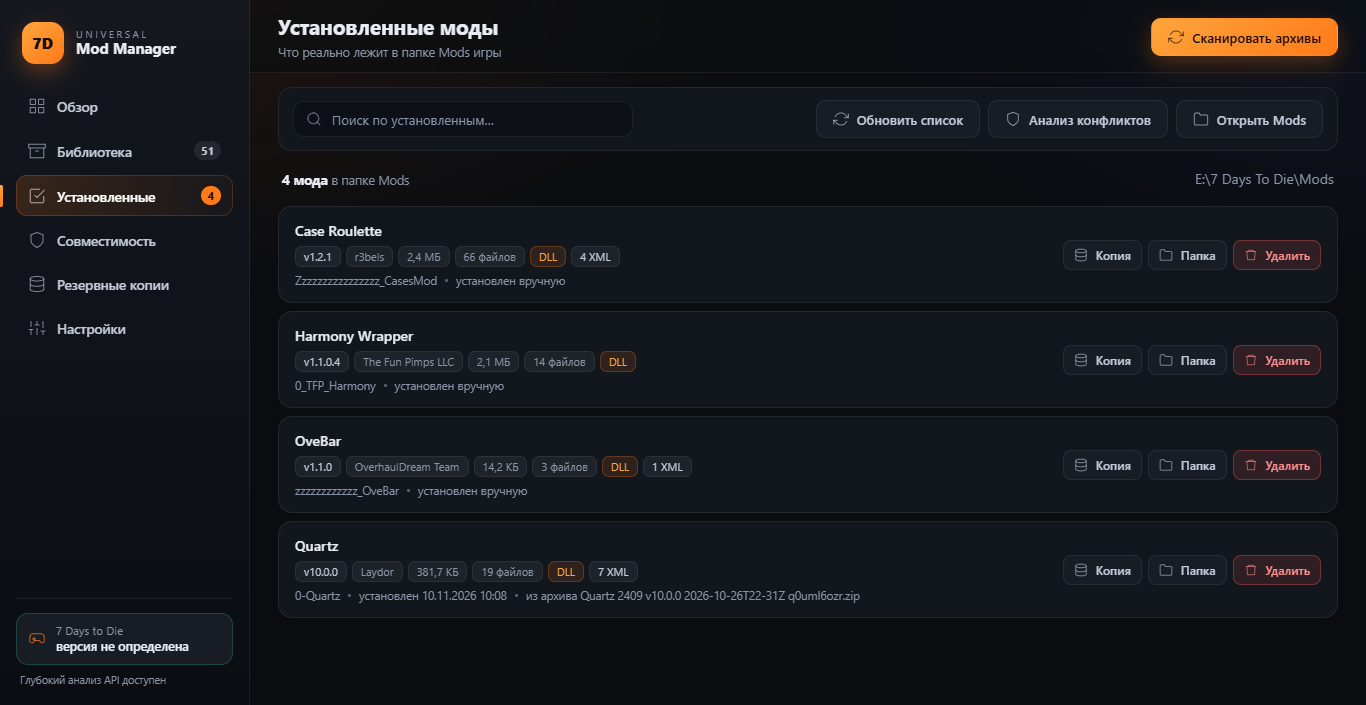
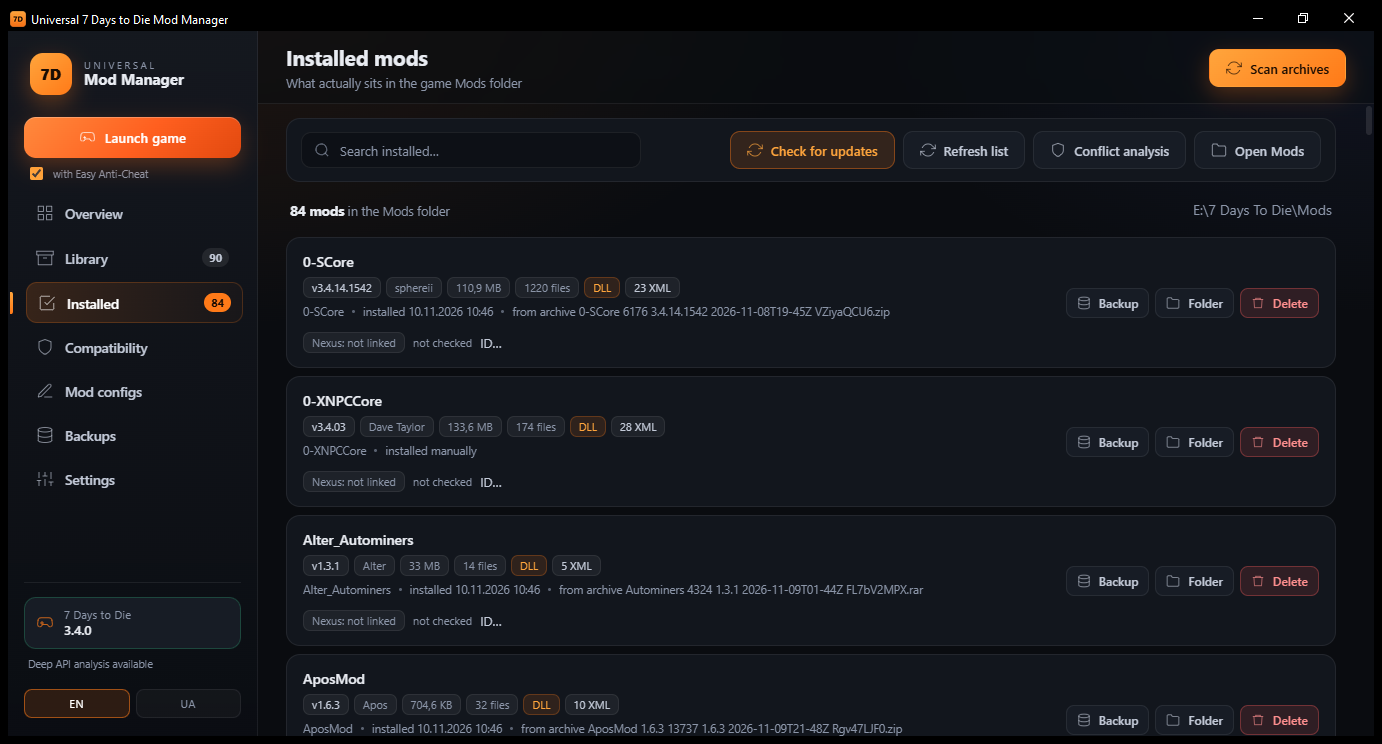
Add user installation guide, changelog, English screenshots and CI build
- INSTALL.md: steps for regular users, SmartScreen note, Nexus key, removal, diagnostics.
- CHANGELOG.md: history from the first prototype to 1.7.4.
- docs/demo.gif and docs/screenshots replaced with English captures of the current build.
- .github/workflows/build.yml: builds, tests and publishes the single-file executable on push.

diff --git a/INSTALL.md b/INSTALL.md
@@ -1,0 +1,63 @@
+# Installation
+
+Universal 7 Days to Die Mod Manager is one executable file. There is no installer and nothing is added
+to the system.
+
+## What you need
+
+- Windows 10 or 11, 64-bit.
+- 7 Days to Die installed. Steam, GOG, Epic and repacks all work.
+- WebView2 Runtime. Windows 11 and current Windows 10 builds already have it. If the window stays
+  blank on start, install it from Microsoft: search for "WebView2 Runtime Evergreen".
+
+## Steps
+
+1. Download `Universal7D2DModManager.exe` from the Releases page.
+2. Put it in a folder you can write to. Do not put it in `Program Files`, Windows will not let it keep
+   its data there. `D:\Tools\ModManager` or any folder in your user profile is fine.
+3. Run it. Windows SmartScreen may show a warning because the file is not signed. Choose "More info"
+   and then "Run anyway". The source code is public, the link is in the repository description.
+4. On the first start the setup window asks for three paths:
+   - **Game folder**, for example `C:\Program Files (x86)\Steam\steamapps\common\7 Days To Die`.
+   - **Mods folder**, usually `<game folder>\Mods`. Leave it empty and the manager fills it in.
+   - **Backups folder**. Optional, leave empty to keep backups next to the manager.
+5. Add at least one folder with your mod archives, for example the folder where you keep downloaded
+   mods. Up to ten folders are allowed. Without one the library has nothing to scan.
+6. Press Start.
+
+The manager creates a `Data` folder next to the executable and keeps the database, settings, logs and
+backups there. Everything stays in one place.
+
+## First scan
+
+Open **Library**, press **Scan**. The manager reads every archive, pulls the name and version out of
+ModInfo.xml and shows what it found. Nothing is installed at this step.
+
+To install, tick the mods you want and press **Install**. A backup of the target folders is made first
+if backups are enabled in Settings.
+
+## Update check for Nexus
+
+Optional. Updates from an archive work without it.
+
+1. Open Settings, find the Nexus API key field.
+2. Get a personal key at `nexusmods.com/users/myaccount?tab=api`, it is free.
+3. Paste it and press the check button. The key is stored encrypted and never leaves your machine
+   except in requests to Nexus.
+
+If a mod shows "not linked", the manager could not work out its Nexus id. You can enter it by hand with
+the **ID…** button, either a number or a full link.
+
+## Removing
+
+Delete the folder with the executable. That is all. Nothing is registered in the system, no services,
+no registry entries.
+
+Your mods in the game folder are not touched by removing the manager.
+
+## If something goes wrong
+
+Settings has a **Save diagnostics** button. It writes one text file with the version, folders, detected
+game version, installed mods and the last operations. Attach it to your bug report.
+
+You can also run the manager with `--diagnostics` to get the same file without opening the window.

diff --git a/CHANGELOG.md b/CHANGELOG.md
@@ -1,0 +1,69 @@
+# Changelog
+
+## 1.7.4
+
+- Empty path fields in the first-run setup. The placeholders used to show a `D:\Games\...` example,
+  which looked like a hardcoded path.
+- Placeholders are now translated instead of being written into the markup.
+
+## 1.7.3
+
+- Nexus id is now looked up in the archive library when a mod has no source archive, which is the
+  normal case for mods installed by hand or by another manager.
+- The reason an id could not be resolved is written to the operation log: no archive, archive
+  unavailable, or hash not found on Nexus.
+
+## 1.7.2
+
+- **Save diagnostics** button in Settings: one text file with the version, folders, detected game
+  version, installed mods and the last operations, ready to attach to a bug report.
+- Unhandled exceptions are written to `Data/logs/crash-*.log`.
+- `--diagnostics` command line switch writes the same report without opening the window.
+
+## 1.7.1
+
+- Server errors from Nexus are no longer reported as "key rejected". Codes 500 and the Cloudflare 52x
+  family now say that the problem is on the Nexus side, with the code shown.
+- One automatic retry after a short pause when the API returns 5xx.
+- The pasted API key is cleaned before use: line breaks, zero-width spaces, quotes and an `apikey:` or
+  `Bearer` prefix no longer break the request.
+
+## 1.7.0
+
+- Single executable distribution. On first start the manager creates `Data` next to itself and keeps
+  the database, settings, logs, backups and the web profile there.
+- Interface in English and Ukrainian, the choice is remembered.
+
+## 1.6.0
+
+- Full two-language interface.
+- Game version is read from the game assembly constants, so repacks without `version.txt` are
+  recognised.
+
+## 1.5.0
+
+- Conflict resolution options, saved as a separate patch mod. The mods themselves are never edited.
+- Load order made visible.
+- Launching the game from the manager, with Easy Anti-Cheat on or off.
+
+## 1.4.0
+
+- Four conflict categories instead of one warning: conflict, potential issue, overlap, shared change.
+- Patch applicability check by replaying patches against the game config.
+
+## 1.3.0
+
+- Node-level comparison replaced file-level warnings. XPath and values are shown per mod.
+
+## 1.2.0
+
+- Compatibility report per mod: DLL references, Harmony patches, target runtime, XML structure.
+- Backups and mod config editing.
+
+## 1.1.0
+
+- First working build: archive scanning, installation, removal.
+
+## 1.0.0
+
+- Initial prototype.

diff --git a/README.md b/README.md
@@ -6,7 +6,10 @@ place. The part worth reading the source for is the conflict analysis: it does n
 it replays the actual XPath patches on a copy of the game config in load order and reports what really
 happens to each node.
 
-![Dashboard](docs/screenshots/01-dashboard.png)
+![Walkthrough](docs/demo.gif)
+
+Download: see the [Releases](../../releases) page. Installation steps for regular users are in
+[INSTALL.md](INSTALL.md), version history in [CHANGELOG.md](CHANGELOG.md).
 
 This repository exists so the released executable can be verified. The binary is built from this source
 with the commands below and nothing else is added to it.
@@ -27,6 +30,17 @@ What it does
 
 Interface in English and Ukrainian. The manager never downloads mods and never sends anything except
 Nexus API requests made with the user's own key.
+
+
+Screenshots
+-----------
+
+| | |
+|---|---|
+| ![Library](docs/screenshots/02-library.png) | ![Installed](docs/screenshots/03-installed.png) |
+| Every archive is read, name and version come from ModInfo | What is really in the Mods folder |
+| ![Compatibility](docs/screenshots/04-compatibility.png) | ![Settings](docs/screenshots/06-settings.png) |
+| Per-mod report: DLL references, runtime, XPath patches | Paths, language, Nexus key |
 
 
 Requirements
